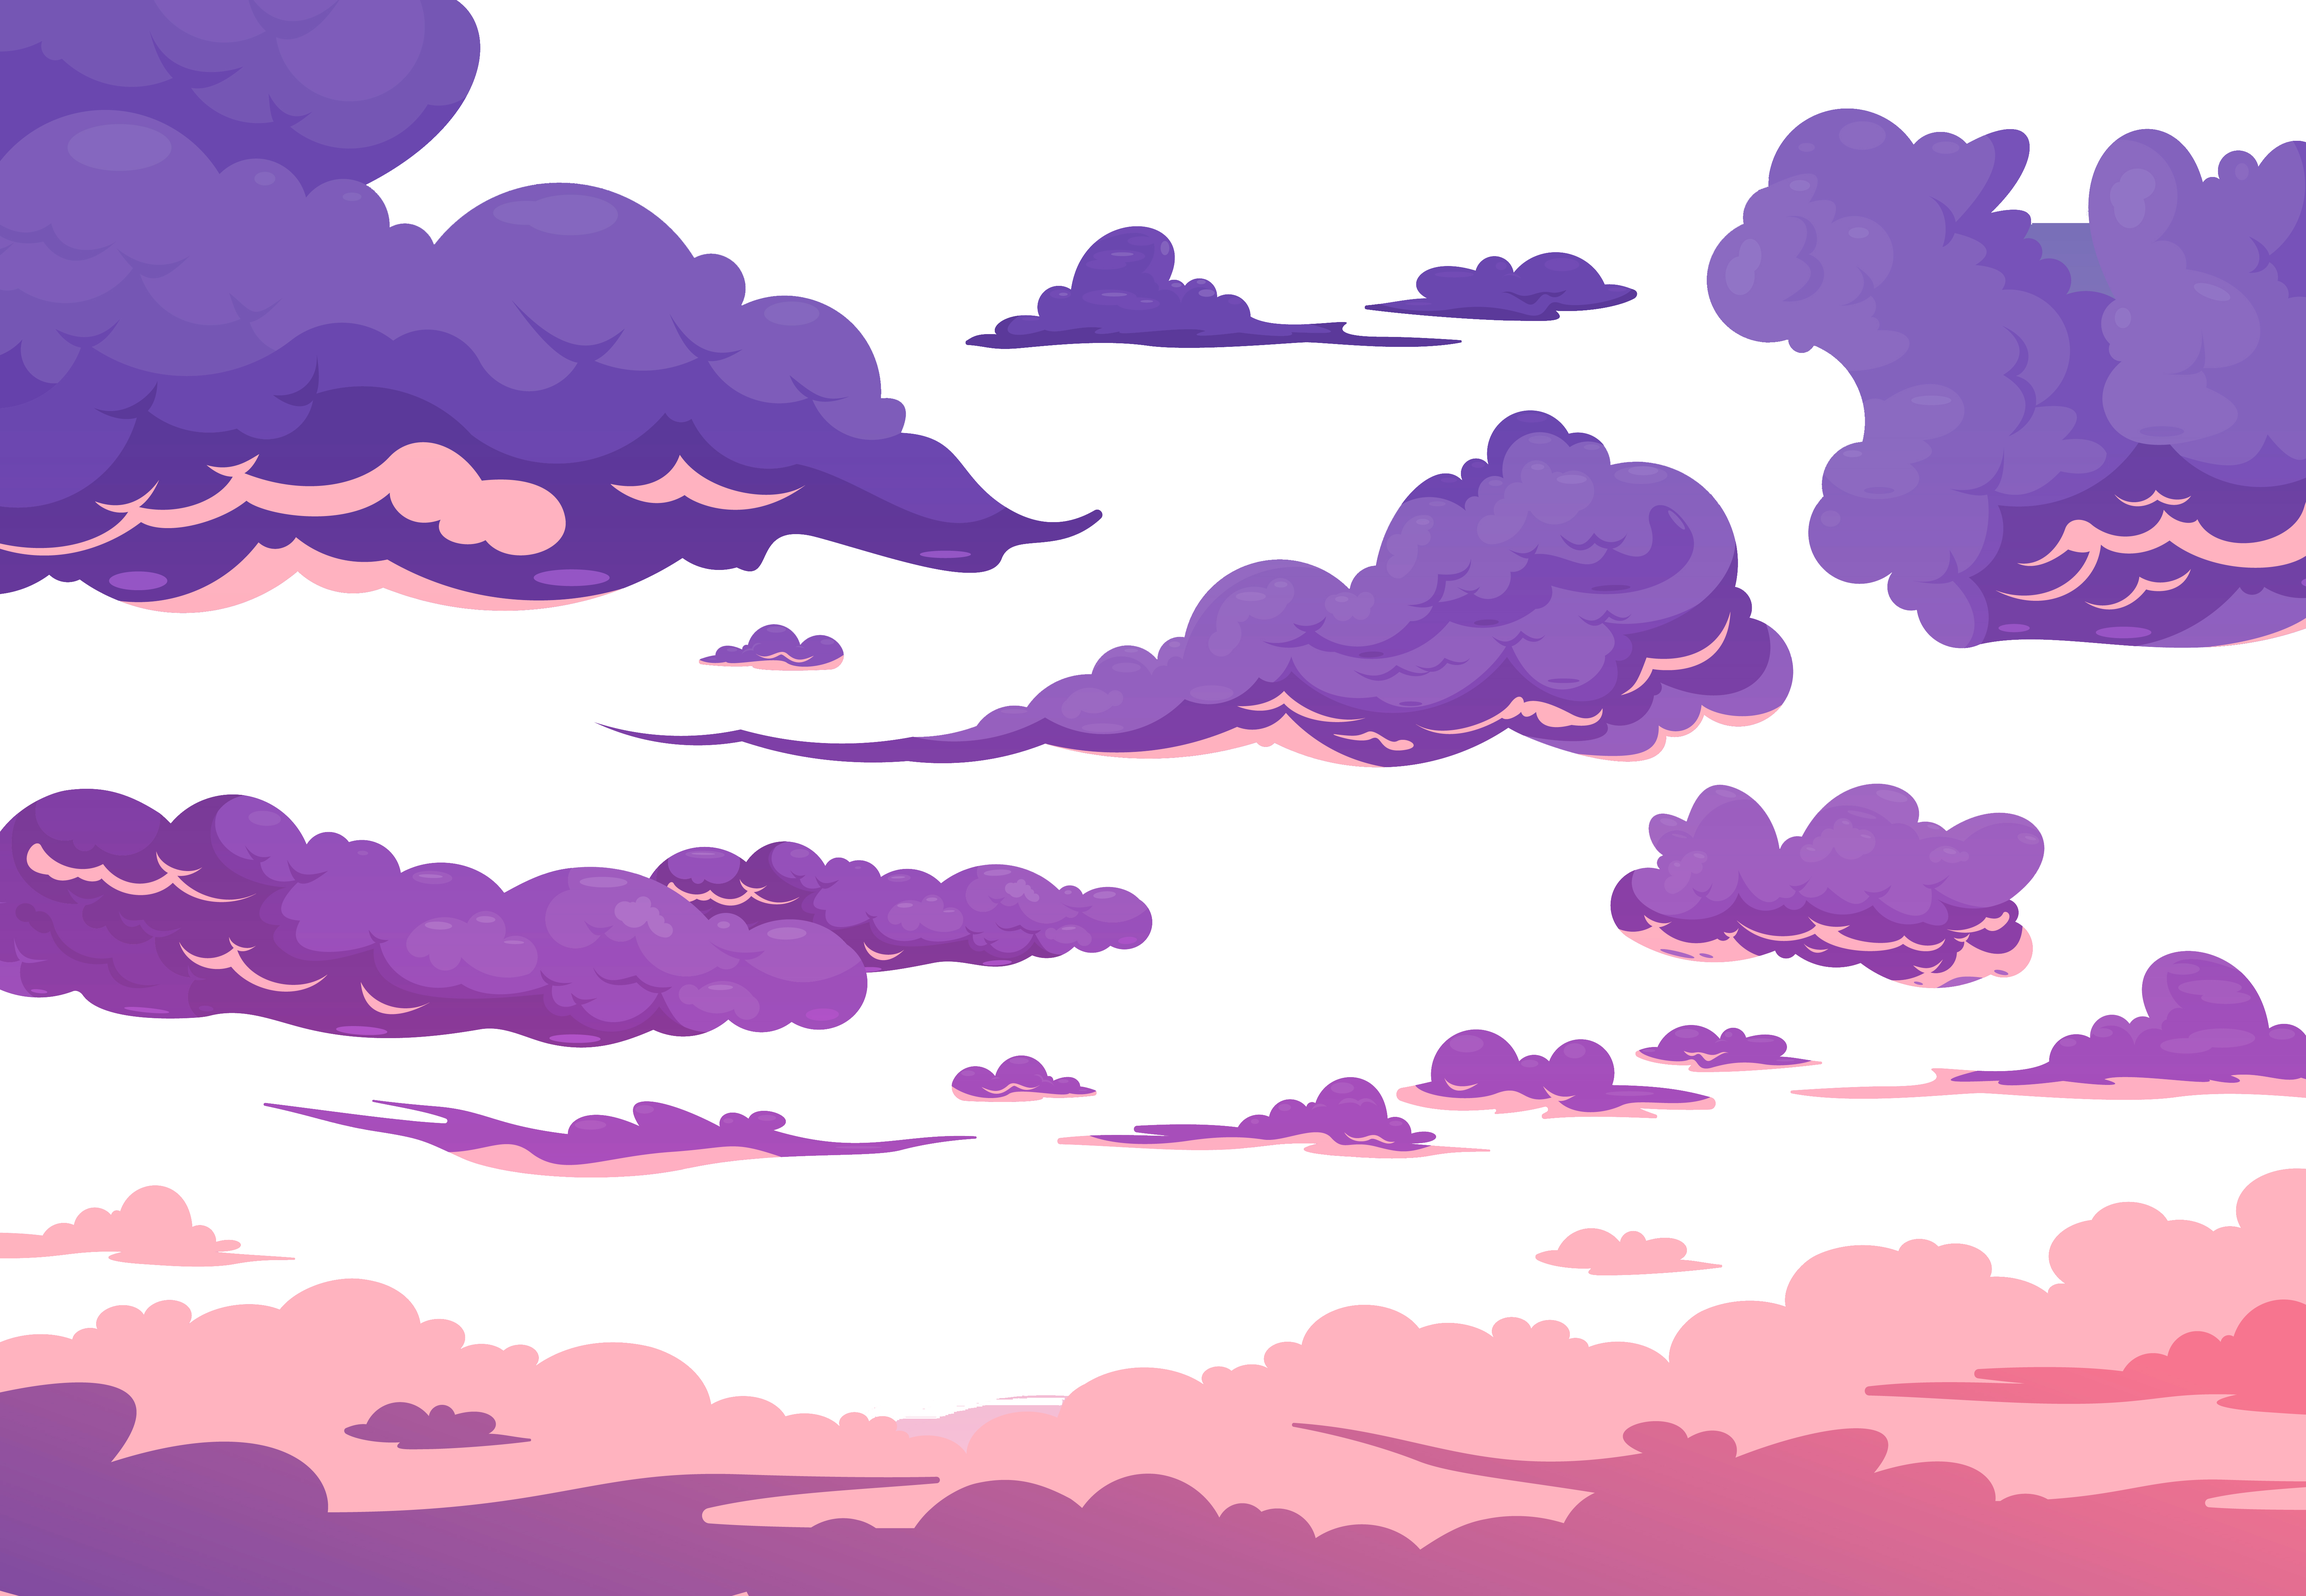
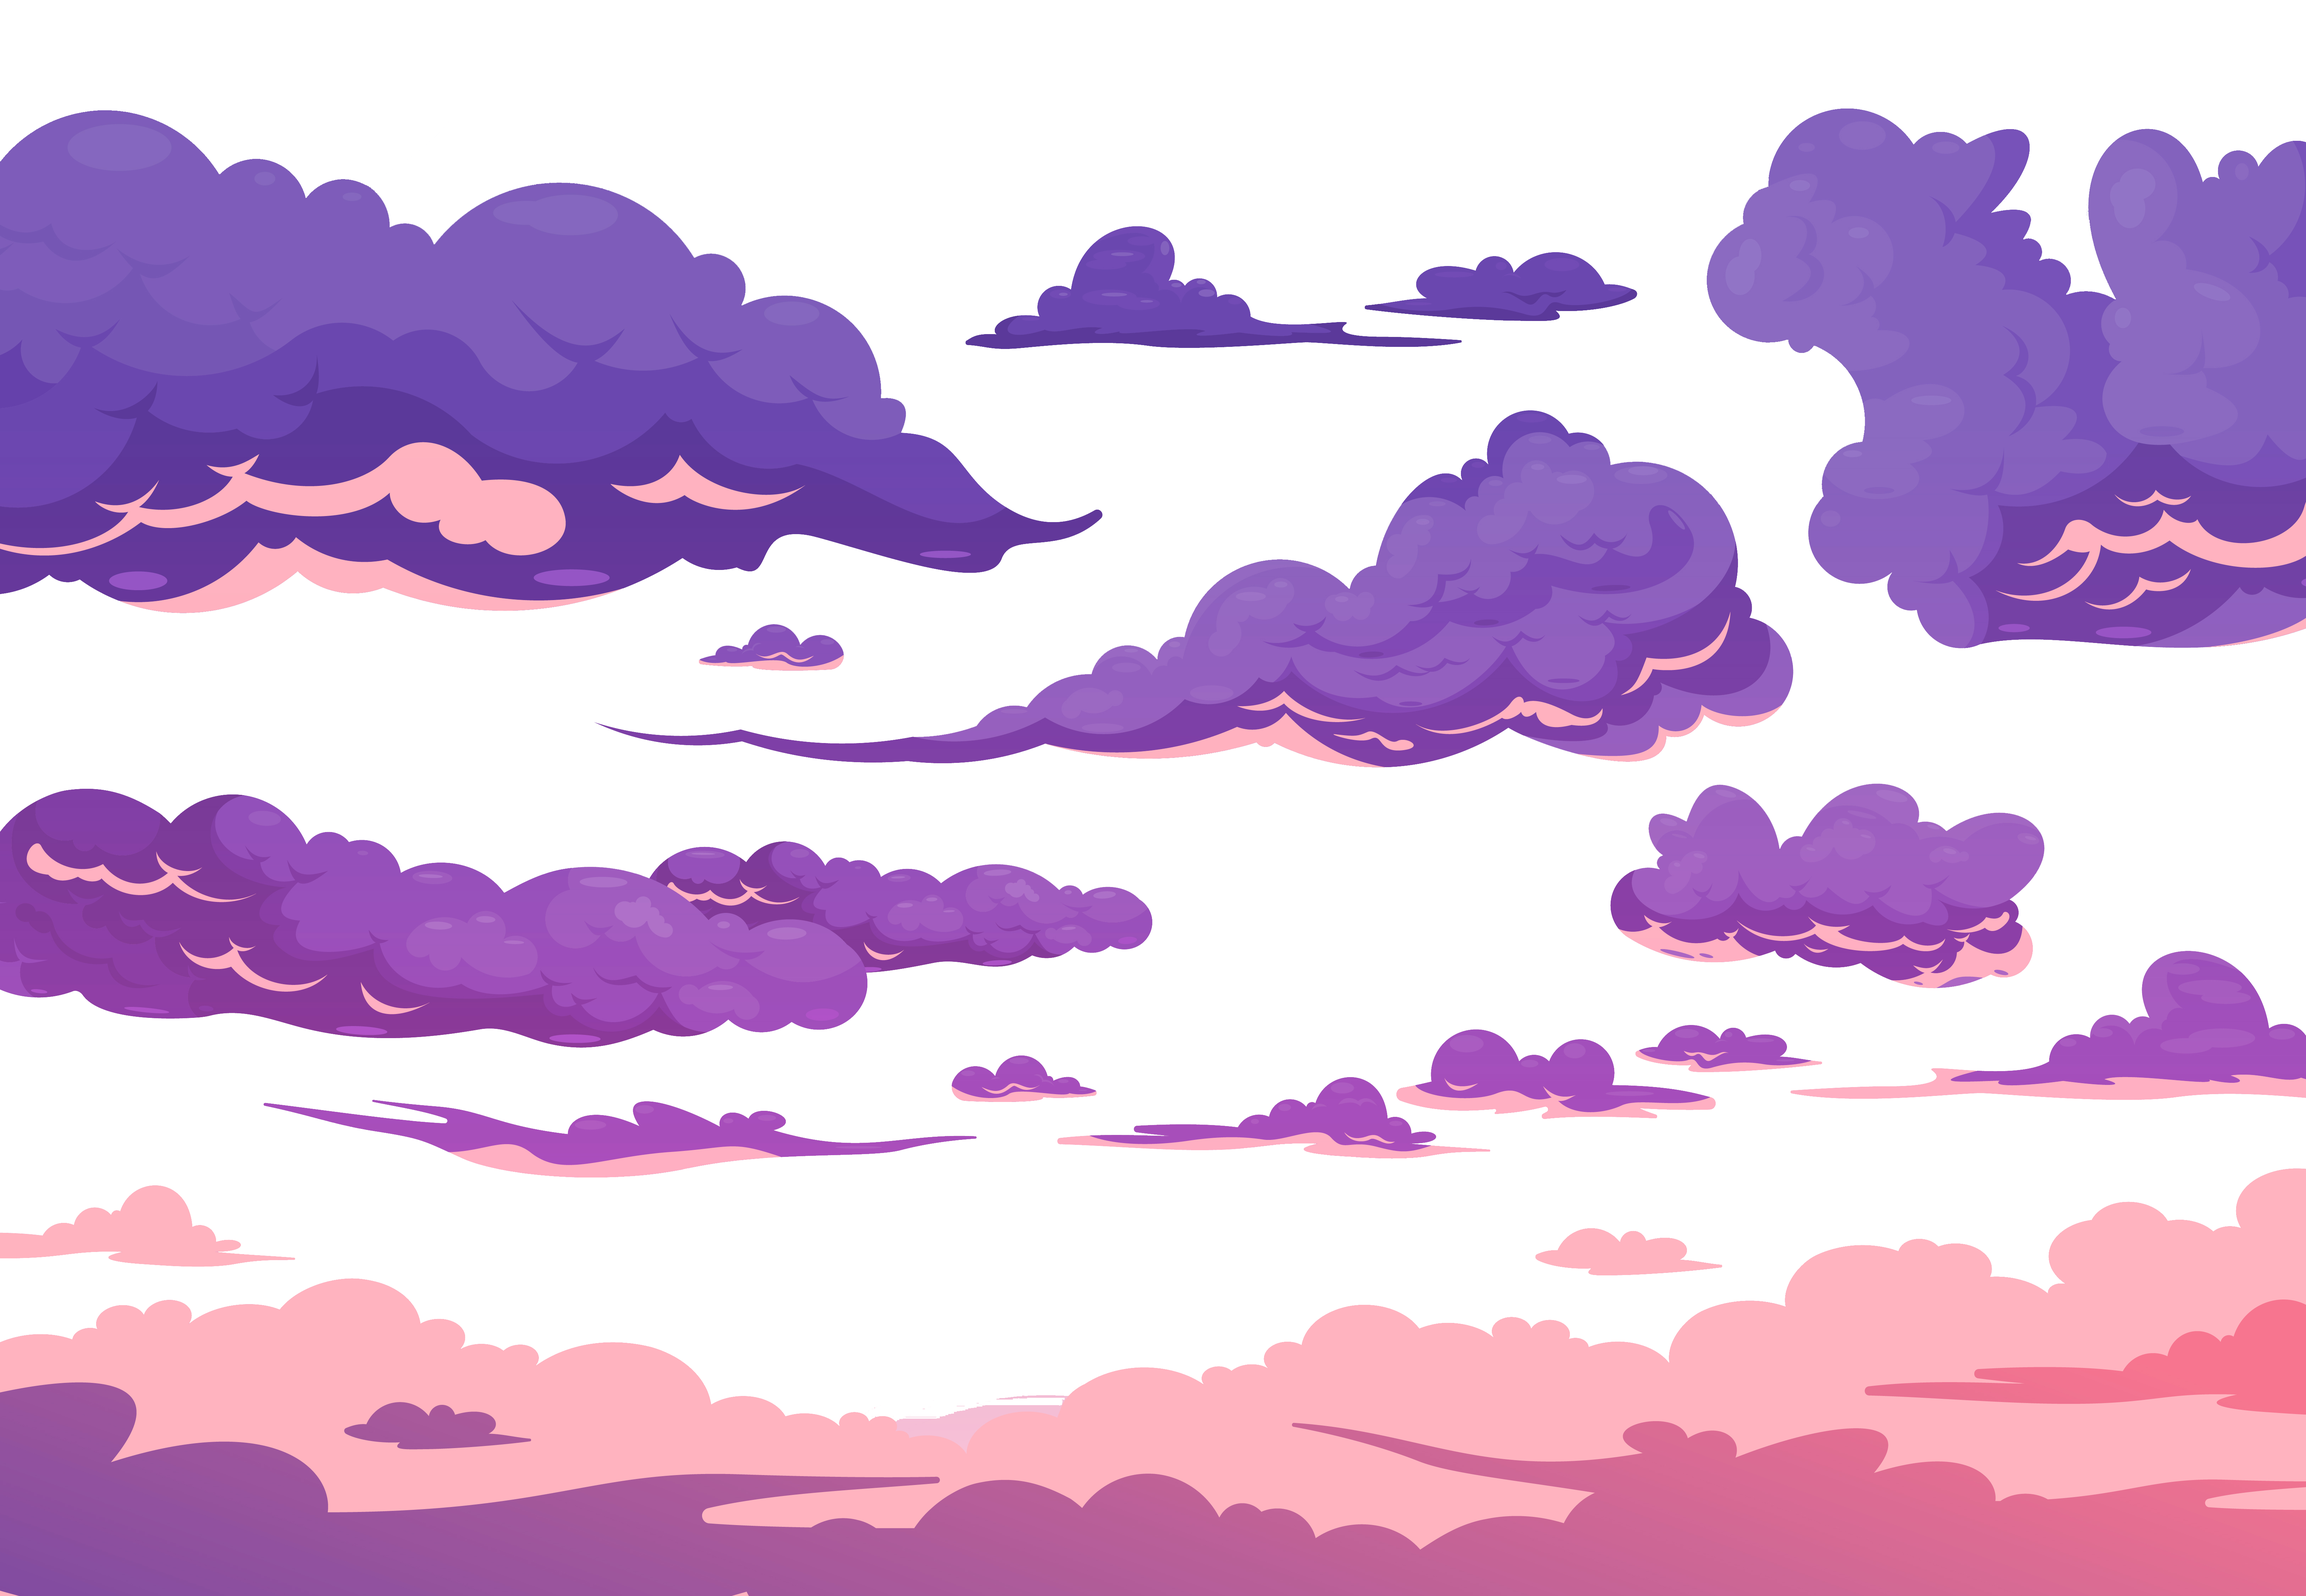
feat: acheivment section final

Changed region(s): [[0.0, 0.0, 0.2186, 0.1244], [0.8745, 0.1244, 0.9369, 0.1867]]

diff --git a/client/src/Achievement.js b/client/src/Achievement.js
@@ -10,7 +10,7 @@ const Achievement = () => {
   return (
     <div id="achievement-section">
       <h1 id="title">Achievement</h1>
-      <img id="Achbackground" src="/Sky.png" alt="sky"/>
+      <p id="a-detail">Click on each Scroll to see Achievements</p>
       <div id="chart"></div>
       <Chart />
     </div>
@@ -24,106 +24,113 @@ const Chart = () => {
     let screenHeight = window.screen.height;
     d3.select("#chart").selectAll("*").remove();
     const parseYear = d3.timeParse("%Y");
-    const height = screenHeight*95/100, width = screenWidth*95/100, padding = 60;
-  
+    const height = screenHeight * 95 / 100, width = screenWidth * 95 / 100, padding = 60;
+
     const svg = d3.select("#chart")
       .append("svg")
       .attr("height", height)
       .attr("width", width);
-  
+
     const yScale = d3.scaleTime()
       .domain([parseYear(2017), parseYear(2028)])
       .range([height - padding, 50]);
-  
+
     const checkPoint = svg.selectAll("circle")
       .data(AchTimeline)
       .enter()
       .append("circle")
       .attr("id", (d, i) => "point-" + i)
       .attr("cx", (d, i) => {
-        d.cx = ((Math.floor(Math.random() * 50) + 1) + i * 200) + 200; // Store cx
+        d.cx = ((Math.floor(Math.random() * 50) + 1) + i * 200) + 220; // Store cx
         return d.cx;
       })
-      .attr("cy", (d, i) => yScale(parseYear(d.year)))
+      .attr("cy", (d, i) => yScale(parseYear(d.year))-30)
       .attr("r", 10)
       .attr("stroke", "rgb(220, 95, 0)")
       .attr("stroke-width", 3)
       .attr("fill", "white");
 
-      let Scrollactive=true;
-      const container = d3.select("#chart");
-      container.selectAll(".image")
+    let Scrollactive = true;
+    const container = d3.select("#chart");
+    container.selectAll(".image")
       .data(AchTimeline)
       .enter()
       .append("img")
-      .attr("id","flag")
+      .attr("id", "flag")
       .attr("src", "./Redflag.gif")
       .attr("alt", "Flag Image")
       .style("width", "100px")
       .style("height", "100px")
       .style("margin-right", "10px")
       .style("position", "absolute")
-      .style("left", d => `${d.cx+15}px`) // Position next to circle
-      .style("top", d => `${yScale(parseYear(d.year))-38}px`)
-      .style("display", d=> {
-        console.log(d.name);
-         return d.name=='Upcoming'?"none":"block"})
+      .style("left", d => `${d.cx + 15}px`) // Position next to circle
+      .style("top", d => `${yScale(parseYear(d.year)) - 38}px`)
+      .style("display", d => {
+        return d.name == 'Upcoming' ? "none" : "block"
+      })
 
-         container.selectAll(".image")
-         .data(AchTimeline)
-         .enter()
-         .append("img")
-         .attr("id","Cscroll")
-         .attr("src", "./Scrollclose.png")
-         .attr("alt", "Flag Image")
-         .style("width", "100px")
-         .style("height", "100px")
-         .style("margin-right", "10px")
-         .style("position", "absolute")
-         .style("left", d => `${d.cx}px`)
-         .style("top", d => `${yScale(parseYear(d.year))+35}px`)
-         .style("display", d=> {
-           console.log(d.name);
-            return d.name=='Upcoming'?"none":"block"})
-          .on("click", function(event, d) {
-            const imgElement = d3.select(this);
-             if(Scrollactive){
-              imgElement.attr("src", "./Scrollopen.png")
-              .style("width", "500px")
-              .style("height", "500px")
-              Scrollactive=false;
-            }else{
-              imgElement.attr("src", "./Scrollclose.png")
-              .style("width", "100px")
-              .style("height", "100px")
-              Scrollactive=true;
-            }
-              
-            });
+    container.selectAll(".image")
+      .data(AchTimeline)
+      .enter()
+      .append("img")
+      .attr("id", "Cscroll")
+      .attr("src", "./Scrolls/Scrollclose.png")
+      .attr("alt", "Flag Image")
+      .style("width", "100px")
+      .style("height", "100px")
+      .style("margin-right", "10px")
+      .style("position", "absolute")
+      .style("left", d => `${d.cx}px`)
+      .style("top", d => `${yScale(parseYear(d.year)) + 35}px`)
+      .style("display", d => {
+        return d.name == 'Upcoming' ? "none" : "block"
+      })
+      .on("click", function (event, d) {
+        const imgElement = d3.select(this);
+        if (Scrollactive) {
+          imgElement.attr("src", d=>{
+            console.log(d.img)
+            return d.img
+          })
+            .attr("id", "Oscroll")
+            .style("width", "500px")
+            .style("height", "500px")
+            .style("top", (d, i) => 400 + "px")
+          Scrollactive = false;
+        } else {
+          imgElement.attr("src", "./Scrolls/Scrollclose.png")
+            .attr("id", "Cscroll")
+            .style("width", "100px")
+            .style("height", "100px")
+            .style("top", d => `${yScale(parseYear(d.year)) + 35}px`)
+          Scrollactive = true;
+        }
+
+      });
 
 
-  
 
 
-    
-  
-  
+
+
+
+
     const yAxis = d3.axisLeft(yScale);
     svg.append("g")
       .attr("transform", `translate(${padding}, 0)`)
       .attr("id", "y-axis")
       .call(yAxis);
-  
+
   }, []);
-  
-  
+
+
 };
 // Threedflag
 // const ThreeFlag = ({ id }) => {
 //   useEffect(() => {
 //     const camera = new THREE.PerspectiveCamera(35, window.innerWidth / window.innerHeight, 0.1, 100);
 //     camera.position.z = 10;
-    
+
 //     const scene = new THREE.Scene();
 //     scene.background = null;
 

diff --git a/client/src/Achievementstyle.css b/client/src/Achievementstyle.css
@@ -5,12 +5,12 @@ iframe {
 }
 
 #achievement-section {
-    position: relative;
     margin-top: 90px;
     display: flex;
     flex-direction: column;
     width: 100%;
     text-align: center;
+    position: relative;
 
 }
 
@@ -18,16 +18,12 @@ iframe {
     font-family: "Rubik Wet Paint", serif;
     font-weight: 400;
     color: rgb(240, 145, 3);
-    text-shadow: 2px 2px 5px rgb(149, 146, 146);
+    text-shadow: 2px 2px 5px rgb(255, 255, 255);
     font-size: 50px;
 }
-#Achbackground{
-    position:absolute;
-    object-fit: cover;
-    height: 100vh;
-    width:100vw;
-    z-index:-100;
-    opacity: 0.6;
+#a-detail{
+    position: relative;
+    font-size: 25px;
 }
 
 /* d3 */
@@ -42,4 +38,10 @@ iframe {
 #Cscroll{
     transform: rotate(-1deg);
     transition: left 1.5s ease-in-out, right 1.5s ease-in-out, height 1.5s ease-in-out, width 1.5s ease-in-out;
+    z-index:1;
+}
+#Oscroll{
+    transform: rotate(-1deg);
+    transition: left 1.5s ease-in-out, right 1.5s ease-in-out, height 1.5s ease-in-out, width 1.5s ease-in-out;
+    z-index:20;
 }

diff --git a/client/src/Project.js b/client/src/Project.js
@@ -19,7 +19,6 @@ const Project = () => {
     const padding = screenWidth*4/100;
 
     const [locations, setlocations] = useState([((screenWidth/2)-185)-500-(padding*2), ((screenWidth/2)-185)-270-padding, ((screenWidth/2)-185), ((screenWidth/2)-185)+370+padding, ((screenWidth/2)-185)+640+(padding*2)]);
-    console.log(locations)
     const [positions, setPositions] = useState([1, 2, 3, 4, 5])
 
 

diff --git a/client/src/index.css b/client/src/index.css
@@ -16,6 +16,12 @@ body {
     min-height: 100vh; /* Ensure it covers the full viewport height */
     margin: 0;
 }
+#background{
+  position:absolute;
+  width: 100vw;
+  z-index:-20;
+  top:60px;
+}
 #aircraft{
     position: absolute;
     top:0px;

diff --git a/client/src/index.js b/client/src/index.js
@@ -9,6 +9,7 @@ import { Achievement } from './Achievement';
 function App() {
   return (
     <div id="main-section">
+      <img id="background" src="Background.png" />
       <Homepage />
       <ThreeScene id="aircraft" />
       <Project />
